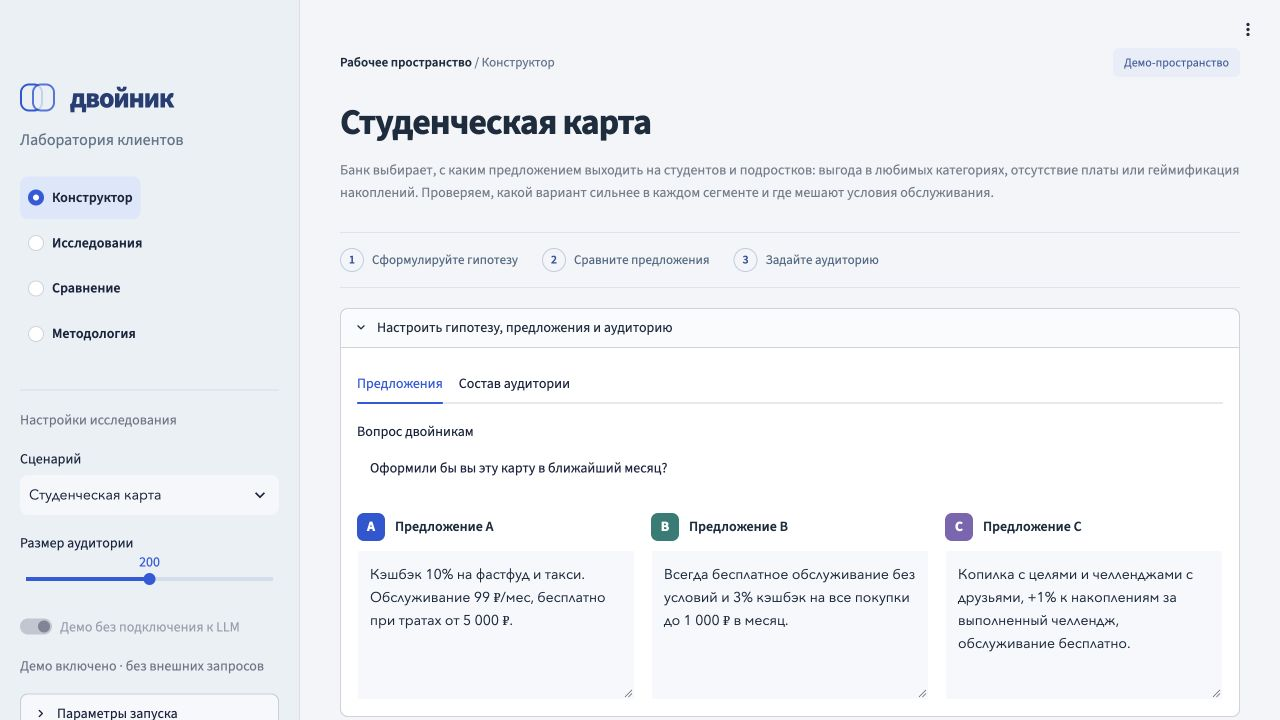
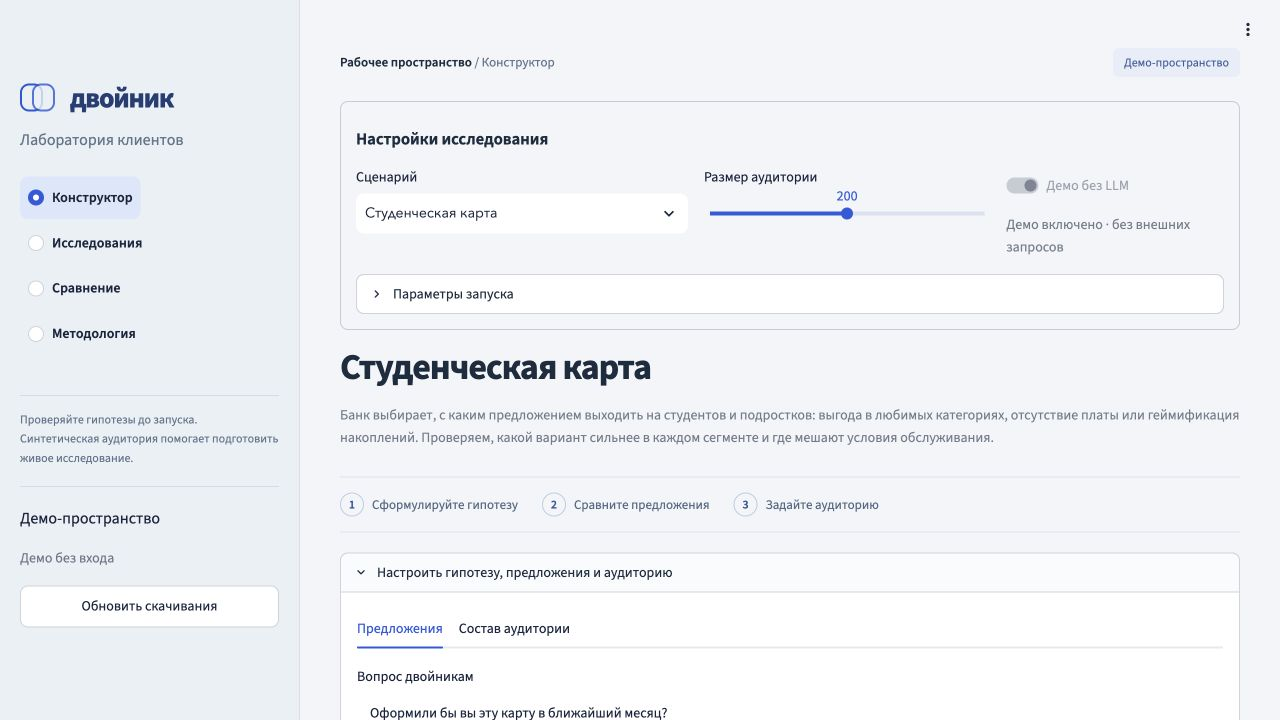
Move research settings into the main workspace

diff --git a/dvoinik/editor_ui.py b/dvoinik/editor_ui.py
@@ -27,24 +27,32 @@ TITLES = {
 }
 
 
-def sidebar_settings(*, demo=False):
-    st.caption("Настройки исследования")
-    key = st.selectbox(
-        "Сценарий", [*SCENARIOS, "custom"], format_func=lambda k: TITLES[k], key="scenario_key"
-    )
-    sizes = sorted({50, 100, 200, 500, 1000, st.session_state.population_n})
-    n = st.select_slider("Размер аудитории", sizes, key="population_n")
-    mock = st.toggle("Демо без подключения к LLM", key="mock_mode", disabled=demo)
-    if mock:
-        st.caption("Демо включено · без внешних запросов")
-    else:
-        st.caption("Модель: " + os.getenv("LLM_MODEL", "qwen2.5:7b-instruct"))
-        st.caption("Модель и подключение настраивает администратор сервера.")
-    with st.expander("Параметры запуска"):
-        seed = st.number_input("Seed популяции и демо", min_value=0, max_value=999999, step=1, key="seed")
-        concurrency = st.number_input(
-            "Параллельных запросов LLM", min_value=1, max_value=64, step=1, key="concurrency"
-        )
+def workspace_settings(*, demo=False):
+    with st.container(border=True, key="research_settings"):
+        st.subheader("Настройки исследования")
+        scenario_col, audience_col, mode_col = st.columns([1.5, 1.3, 1])
+        with scenario_col:
+            key = st.selectbox(
+                "Сценарий", [*SCENARIOS, "custom"], format_func=lambda k: TITLES[k], key="scenario_key"
+            )
+        with audience_col:
+            sizes = sorted({50, 100, 200, 500, 1000, st.session_state.population_n})
+            n = st.select_slider("Размер аудитории", sizes, key="population_n")
+        with mode_col:
+            mock = st.toggle("Демо без LLM", key="mock_mode", disabled=demo)
+            if mock:
+                st.caption("Демо включено · без внешних запросов")
+            else:
+                st.caption("Модель: " + os.getenv("LLM_MODEL", "qwen2.5:7b-instruct"))
+                st.caption("Модель и подключение настраивает администратор сервера.")
+        with st.expander("Параметры запуска"):
+            seed_col, concurrency_col = st.columns(2)
+            seed = seed_col.number_input(
+                "Seed популяции и демо", min_value=0, max_value=999999, step=1, key="seed"
+            )
+            concurrency = concurrency_col.number_input(
+                "Параллельных запросов LLM", min_value=1, max_value=64, step=1, key="concurrency"
+            )
     return key, RunSettings(n=n, mock=mock, seed=int(seed), concurrency=int(concurrency))
 
 

diff --git a/dvoinik/application.py b/dvoinik/application.py
@@ -9,7 +9,7 @@ from .auth_ui import account_sidebar, administration, expire_access, require_acc
 from .comparison_ui import comparison_view
 from .constructor_ui import render_constructor
 from .draft_ui import initialize_drafts, navigate, reuse_record
-from .editor_ui import sidebar_settings
+from .editor_ui import workspace_settings
 from .library import library_view
 from .methodology_ui import methodology
 from .presentation import escape, markup
@@ -70,9 +70,6 @@ def main():
             key="navigation",
             label_visibility="collapsed",
         )
-        st.divider()
-        if nav == "Эксперимент":
-            key, settings = sidebar_settings(demo=user.role == "demo")
         markup(
             '<div class="sidebar-note">Проверяйте гипотезы до запуска.<br>Синтетическая аудитория помогает подготовить живое исследование.</div>'
         )
@@ -94,6 +91,7 @@ def main():
         st.caption("Сопоставьте два исследования: предложения, условия, результаты и покрытие сегментов.")
         comparison_view(st.session_state.history)
     else:
+        key, settings = workspace_settings(demo=user.role == "demo")
         render_constructor(key, settings, user.id)
     markup(
         '<div class="footer">Двойник · MISIS X · Академия Финтеха 2026<br>Синтетические ответы помогают формулировать гипотезы. Решения о запуске подтверждаются на живой аудитории.</div>'

diff --git a/docs/development.md b/docs/development.md
@@ -37,7 +37,8 @@ $env:DVOINIK_AUTH_MODE = "demo"
 
 ## Рабочий процесс
 
-1. Создайте собственный сценарий или выберите один из семи шаблонов: студенческая карта, семейный счёт, кредитная карта,
+1. В основной области рабочего пространства откройте «Настройки исследования».
+   Создайте собственный сценарий или выберите один из семи шаблонов: студенческая карта, семейный счёт, кредитная карта,
    вклад 60+, пуш о кэшбэке, тариф самозанятых или переводы нерезидентов.
 2. Измените вопрос, тексты предложений и доли целевых сегментов. В собственном сценарии доступны
    2–5 вариантов, любой из семи сегментов, контекст исследования и свои категории отказа.

diff --git a/docs/demo.md b/docs/demo.md
@@ -20,7 +20,8 @@ DVOINIK_AUTH_MODE=demo python serve.py
 
 ## Исследование: предложение вклада аудитории 60+
 
-1. В конструкторе выберите сценарий «Вклад для пенсионеров» и аудиторию 200.
+1. В конструкторе, в блоке «Настройки исследования» основной области рабочего пространства,
+   выберите сценарий «Вклад для пенсионеров» и аудиторию 200.
 2. Прочитайте три исходных предложения. A — оформление в приложении;
    B — отделение или менеджер; C — дополнительное подтверждение снятия родственником.
    Это разные предложения; разница A/C не является эффектом одной смены канала.

diff --git a/README.md b/README.md
@@ -73,7 +73,7 @@ DVOINIK_AUTH_MODE=demo python serve.py
 Подробный [маршрут демо](docs/demo.md) включает загрузку настоящего опроса, когда ответы респондентов доступны.
 Пример из репозитория не содержит результатов живой проверки.
 
-![Конструктор исследования: вопрос, предложения и готовность к запуску](docs/images/constructor.png)
+![Настройки исследования в основной области рабочего пространства](docs/images/constructor.png)
 
 ## Что ещё предстоит подтвердить
 
